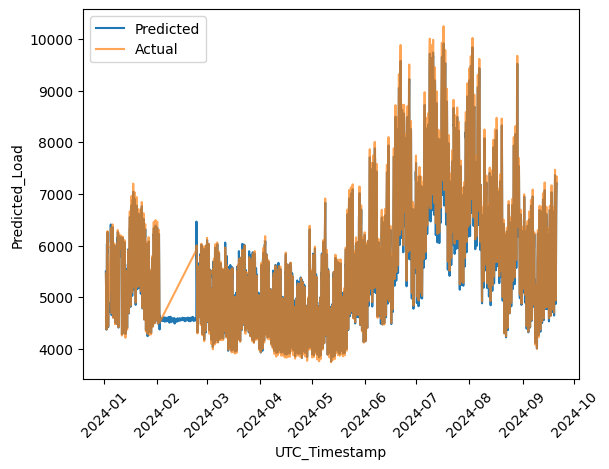
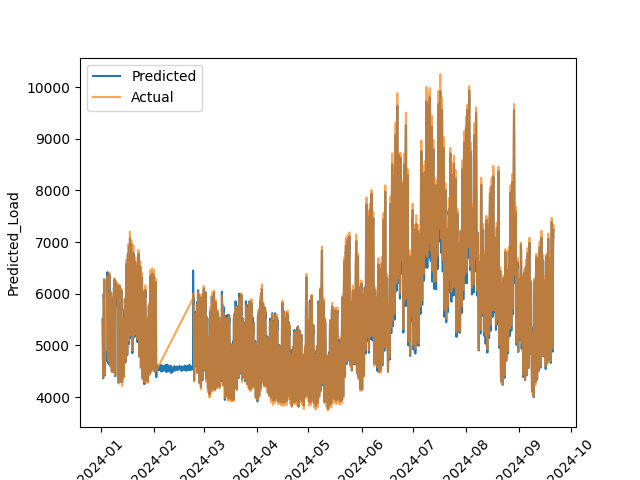
readme revision

Changed region(s): [[0.0, 0.0299, 0.936, 1.0], [0.8424, 0.8955, 0.936, 1.0], [0.936, 0.8358, 0.9984, 0.8955]]

diff --git a/src/1_nyc_analysis.py b/src/1_nyc_analysis.py
@@ -231,6 +231,8 @@ nyc_predictions_daily = nyc_predictions.resample("D").sum()
 sns.lineplot(nyc_predictions, x = nyc_predictions.index, y = "Predicted_Load", label = "Predicted")
 sns.lineplot(nyc_predictions, x = nyc_predictions.index, y = "Actual_Load_MW", label = "Actual", alpha = 0.7)
 plt.xticks(rotation = 45)
+
+plt.savefig("../artifacts/nyc-predicted-actual-line.png")
 plt.show()
 # -
 

diff --git a/src/0_nyc_eda.py b/src/0_nyc_eda.py
@@ -257,9 +257,9 @@ plt.show()
 plt.figure(figsize = (20, 10))
 sns.lineplot(data = nyc_ny_train_daily, x = nyc_ny_train_daily.index, y = "New_York_City_Actual_Load__MW_").set(title = "NYC Daily Load for Training Set")
 plt.xticks(rotation = 45)
-plt.show()
 
 plt.savefig("../artifacts/nyc-training-load.png")
+plt.show()
 # -
 
 plt.figure(figsize = (20, 10))

diff --git a/README.md b/README.md
@@ -27,7 +27,7 @@ At this stage, the data was split into the training and test sets, using data fr
 
 
 **Load Imputation**:
-In the training set, an initial imputation was carried out to address the missing load values. Missing values were filled using the average demand from the same period in previous years. For cases where no prior periods were available for reference, such as missing data in 2021, time-based interpolation was applied. In contrast for the test set, a simpler forward-fill method was used to impute missing values, for a simple and consistent solution. 
+In the training set, missing values were initially filled using the average demand from the same period in previous years. This approach was chosen due to the data spanning only three years, with no obvious trend. For cases where no prior periods were available for reference, such as missing data in 2021, linear time-based interpolation was applied. In contrast for the test set, to prevent data leakage, a simpler forward-fill method was used to impute missing values. 
 
 ## Exploratory Data Analysis (EDA)
 
